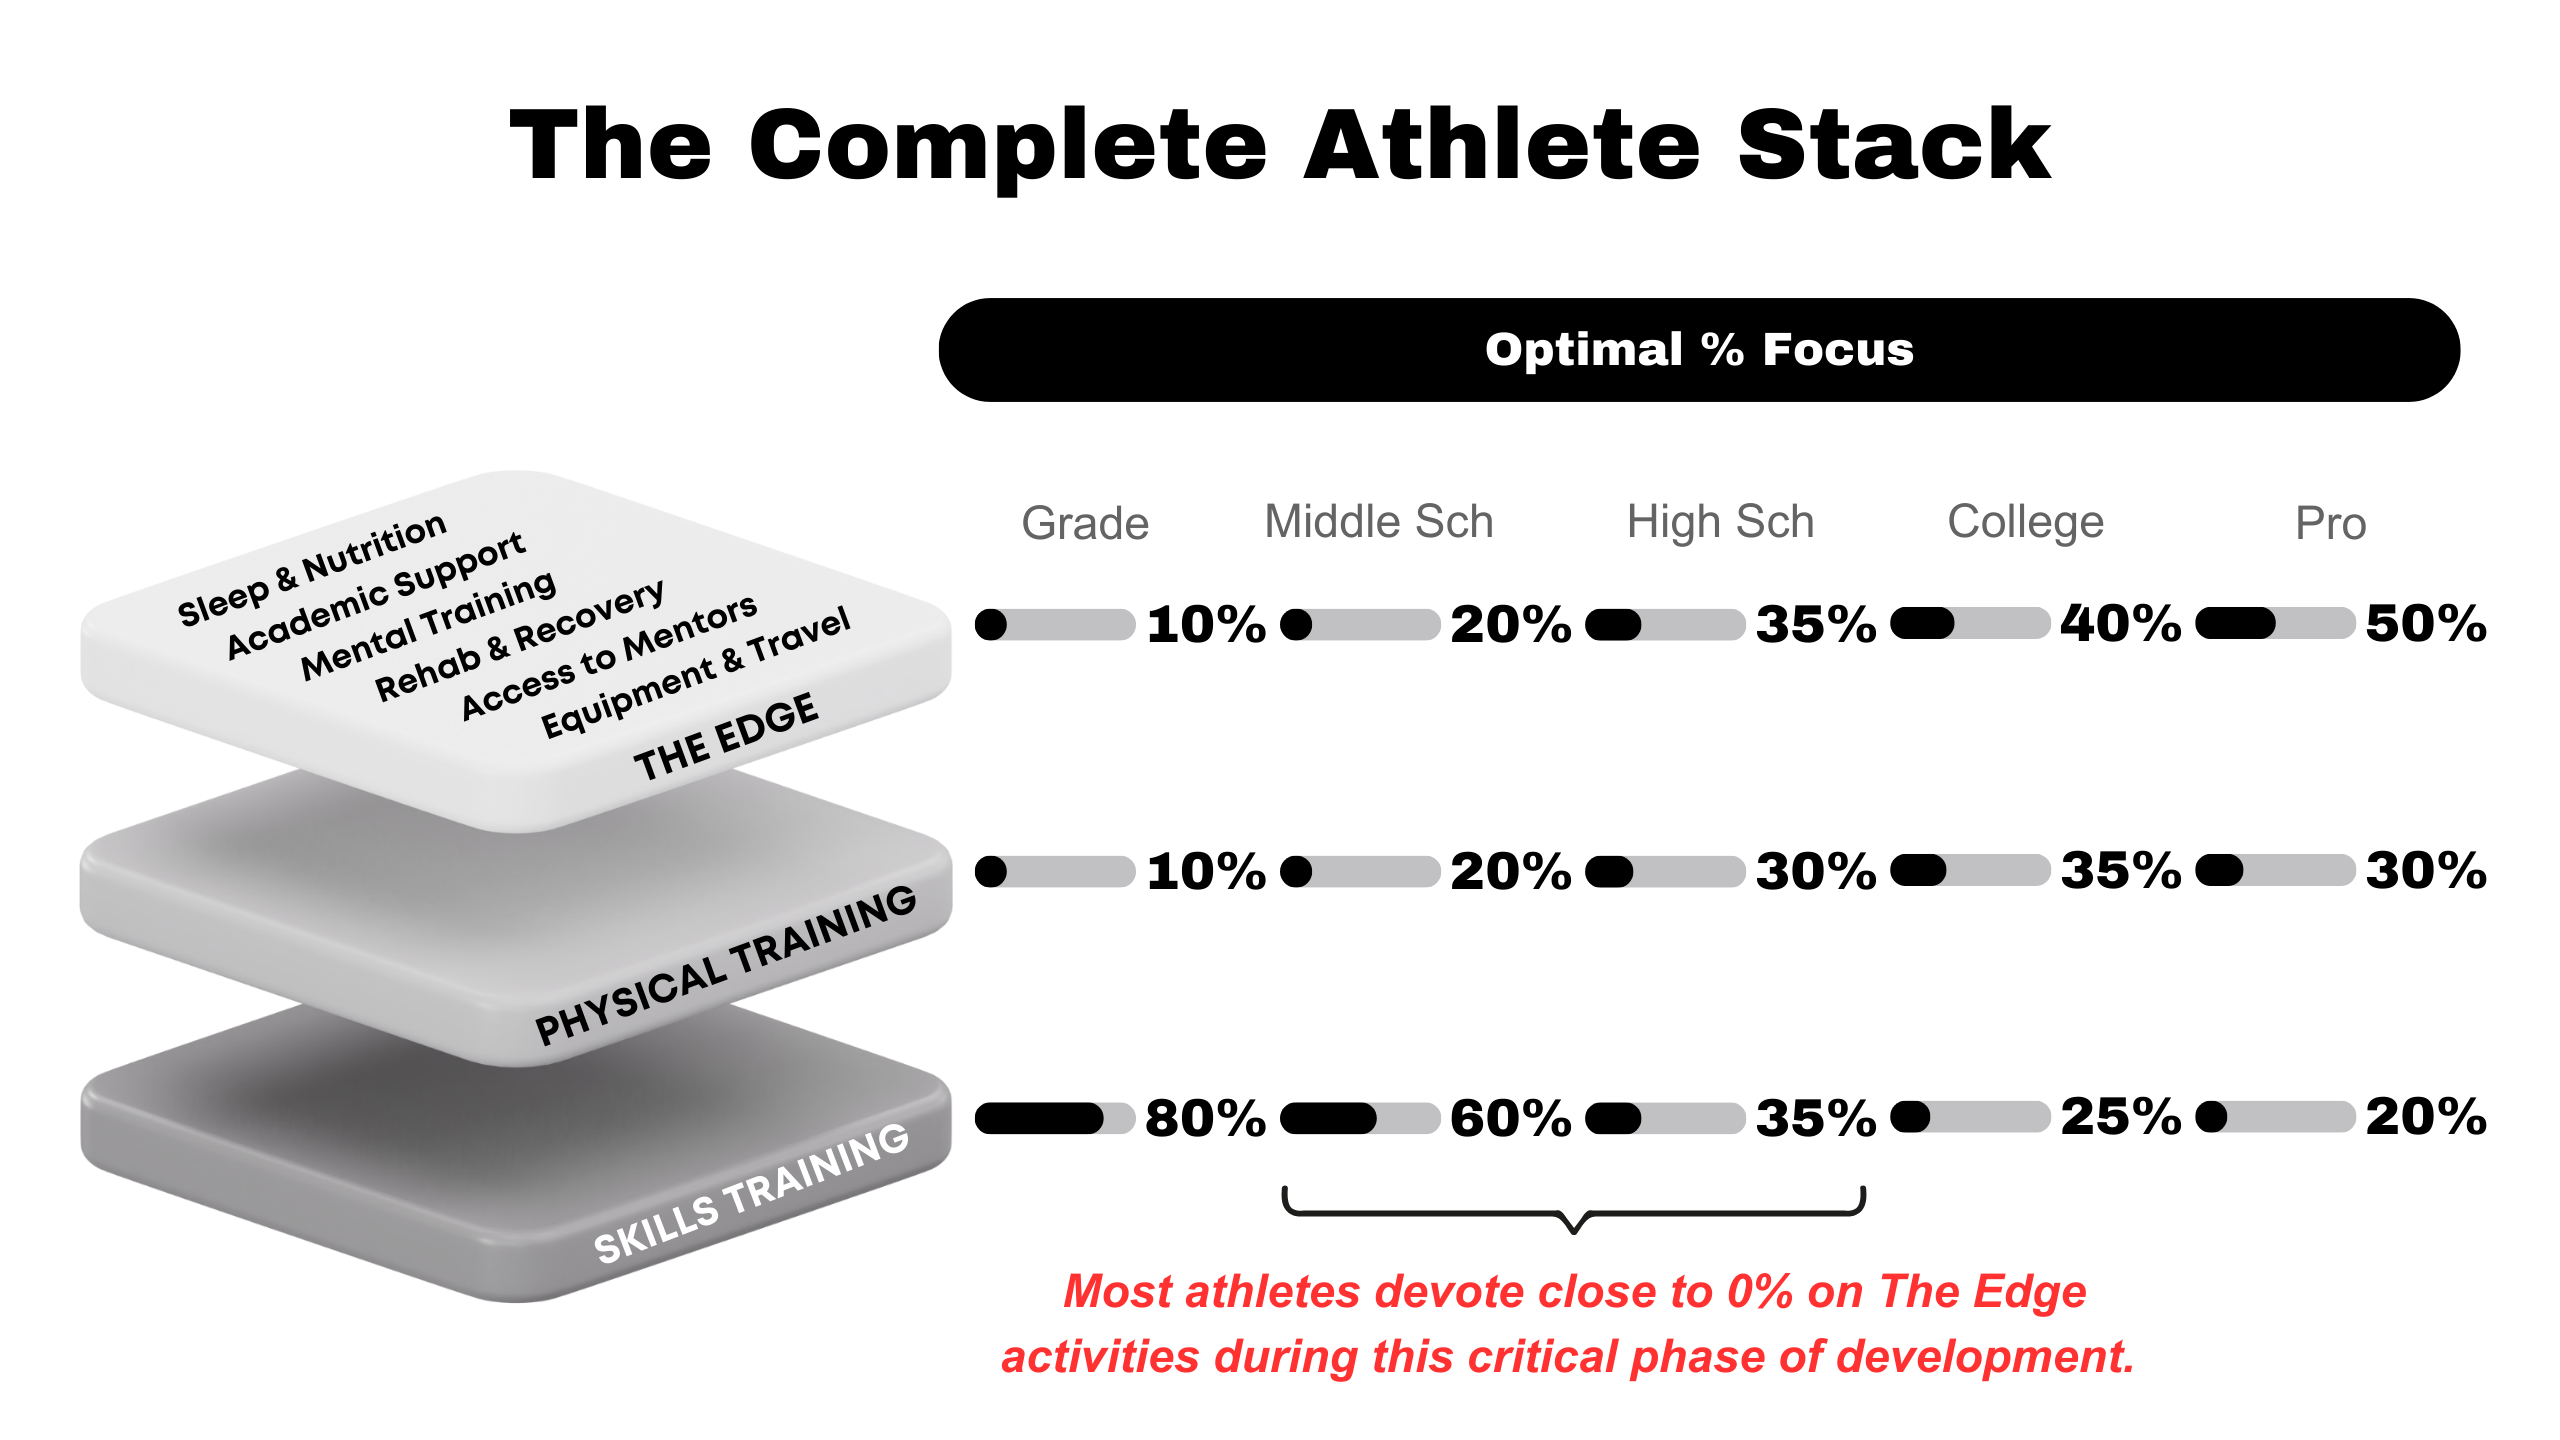
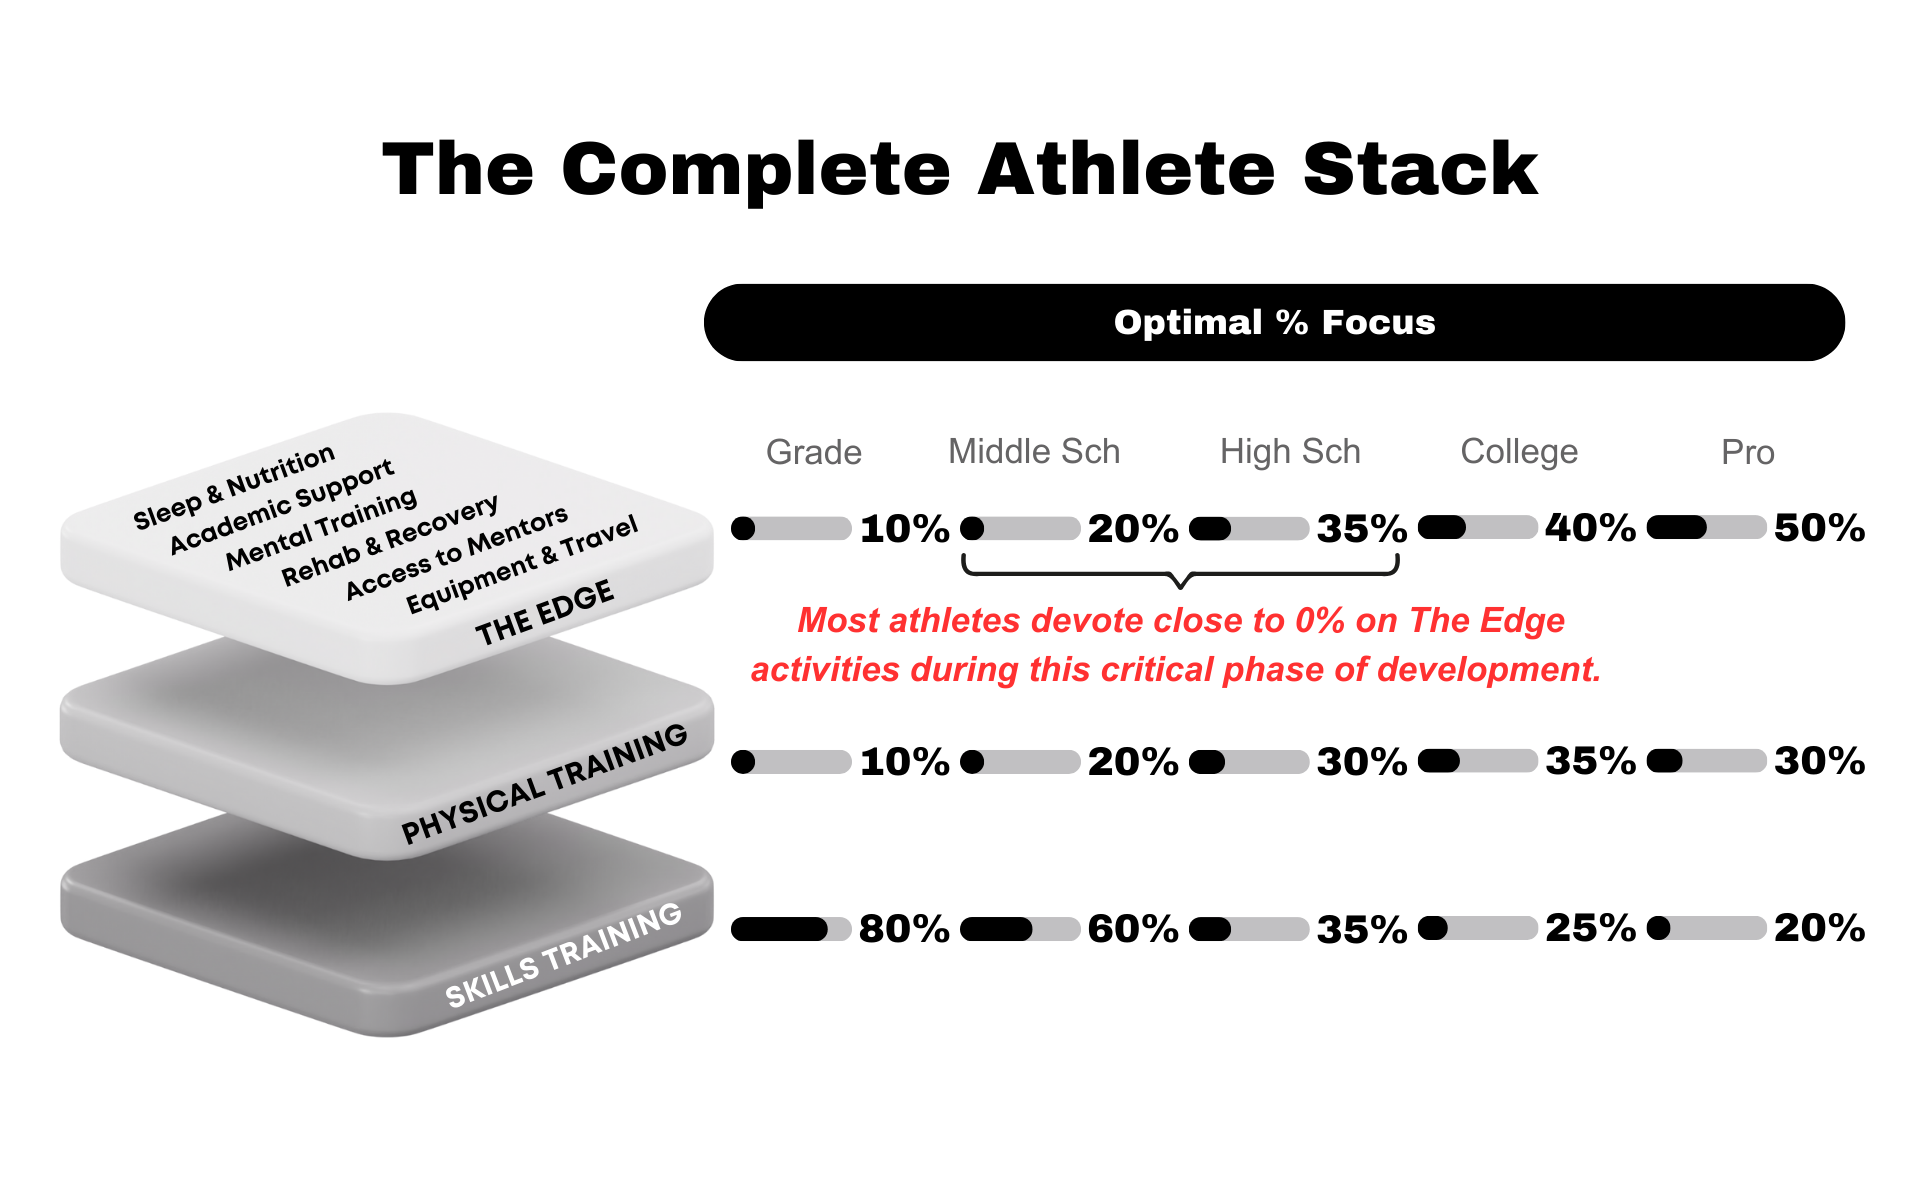
fixed

diff --git a/styles.css b/styles.css
@@ -847,9 +847,9 @@ strong {
         height: 24px;
     }
     
-    /* Fix hero - set height to match 16:10 image aspect ratio */
+    /* Fix hero - taller height to show full image with designed black space */
     .hero {
-        height: 62.5vw; /* Width is 100vw, so 100vw * (10/16) = 62.5vw for 16:10 ratio */
+        height: 80vw; /* Taller to show complete image including black space */
     }
     
     h2 {
